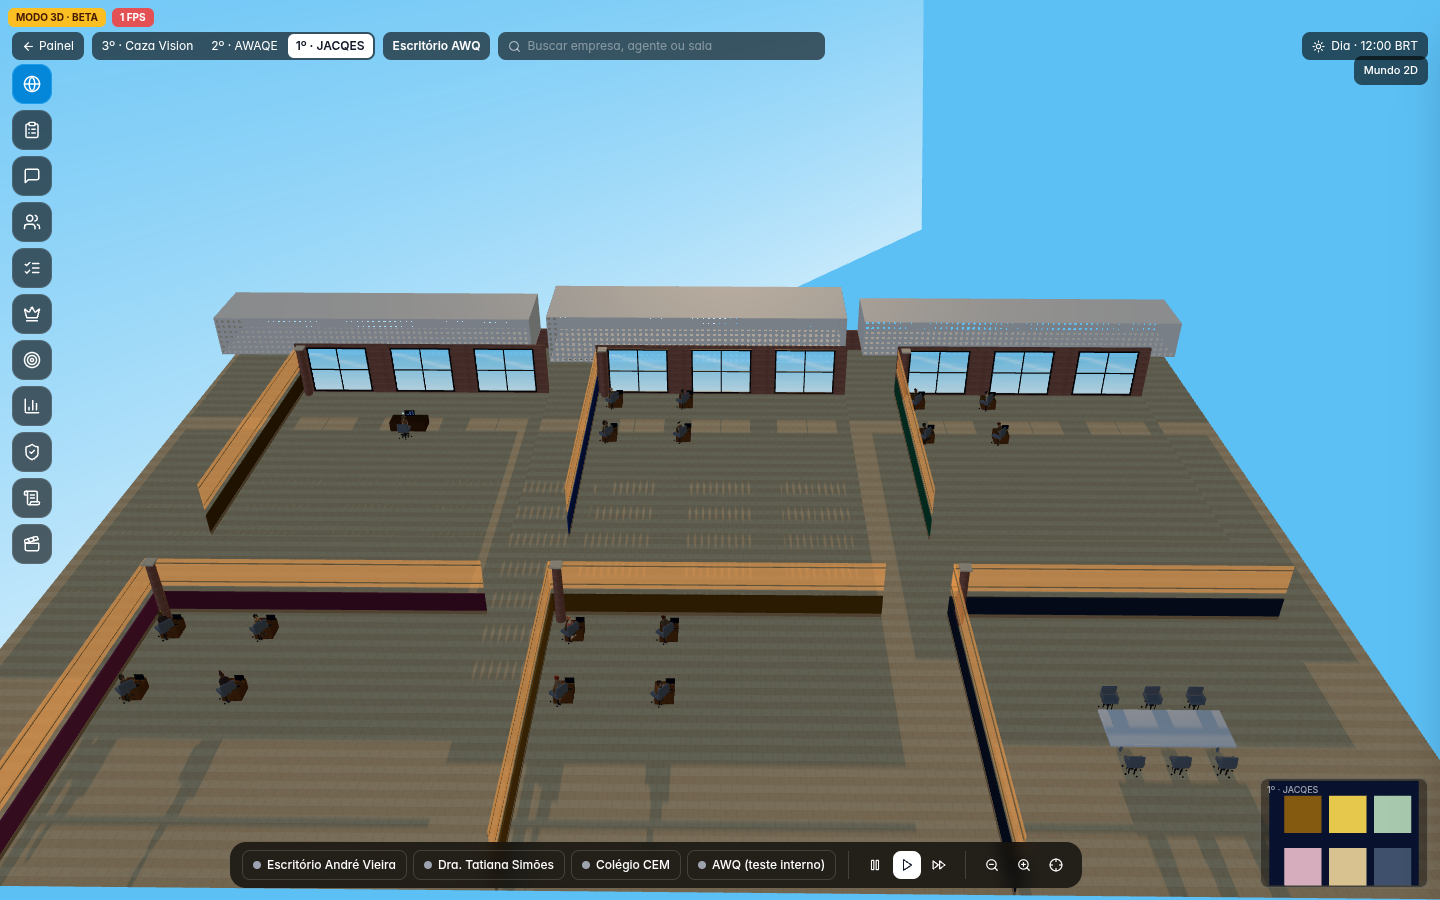
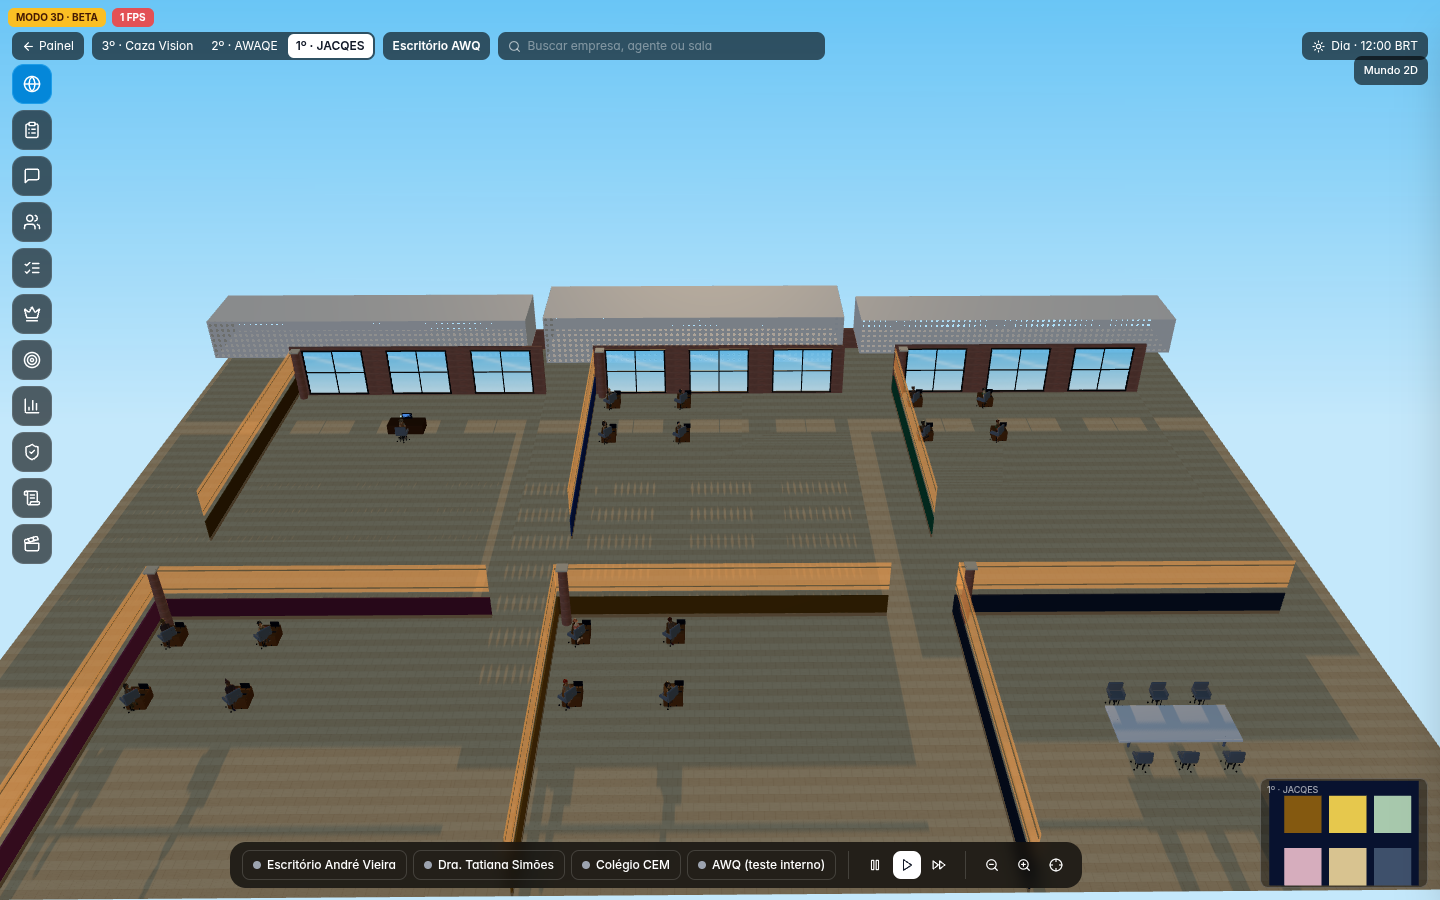
fix(office): céu acompanha a câmera e uma luz por sala
O plano fixo de 260×120 cortava o canto na órbita. O degradê agora preenche o quadro, preso à câmera. Cada sala fica com uma point light só.

diff --git a/components/office/OfficeGame3D.tsx b/components/office/OfficeGame3D.tsx
@@ -666,9 +666,14 @@ function Sala({
       )}
       {/* duas paredes de fundo, em camadas (rodapé + painel + vidro com travessas), cutaway —
           sem parede frontal nem teto, pra manter a leitura isométrica */}
-      {/* As luzes ficam montadas; só a intensidade muda, para o shader não recompilar. */}
-      <pointLight position={[w / 2, 2.2, d / 2]} color="#ffc48a" intensity={ativo ? 6 : 0} distance={14} decay={2} />
-      <pointLight position={[w / 2, 1.7, d / 2]} color="#ffb060" intensity={!ativo && luzDoDia(hora) < 0.55 ? 4 : 0} distance={12} decay={2} />
+      {/* Uma luz só, sempre montada: cor e intensidade trocam sem recompilar o shader. */}
+      <pointLight
+        position={[w / 2, 2.2, d / 2]}
+        color={ativo ? "#ffc48a" : "#ffb060"}
+        intensity={ativo ? 6 : luzDoDia(hora) < 0.55 ? 4 : 0}
+        distance={ativo ? 14 : 12}
+        decay={2}
+      />
       <group position={[0, 0, 0.02]}>
         {predio.y <= 1 ? (
           <ParedeExterna comprimento={w} hora={hora} />
@@ -926,8 +931,13 @@ function SalaDaCasa({
           <meshStandardMaterial map={tapeteMap} color={accent} roughness={0.95} transparent opacity={0.9} />
         </mesh>
       )}
-      <pointLight position={[w / 2, 2.2, d / 2]} color="#ffc48a" intensity={detalhado ? 6 : 0} distance={14} decay={2} />
-      <pointLight position={[w / 2, 1.7, d / 2]} color="#ffb060" intensity={!detalhado && luzDoDia(hora) < 0.55 ? 4 : 0} distance={12} decay={2} />
+      <pointLight
+        position={[w / 2, 2.2, d / 2]}
+        color={detalhado ? "#ffc48a" : "#ffb060"}
+        intensity={detalhado ? 6 : luzDoDia(hora) < 0.55 ? 4 : 0}
+        distance={detalhado ? 14 : 12}
+        decay={2}
+      />
       <group position={[0, 0, 0.02]}>
         {origem.y <= 1 ? (
           <ParedeExterna comprimento={w} hora={hora} />
@@ -1128,8 +1138,10 @@ function texturaDegrade(topo: string, base: string): THREE.CanvasTexture {
   c.height = 256;
   const g = c.getContext("2d")!;
   const grad = g.createLinearGradient(0, 0, 0, 256);
+  // O plano preenche o quadro: o topo segura a cor do céu e o degradê chega no horizonte, não no rodapé.
   grad.addColorStop(0, topo);
-  grad.addColorStop(0.45, topo);
+  grad.addColorStop(0.12, topo);
+  grad.addColorStop(0.48, base);
   grad.addColorStop(1, base);
   g.fillStyle = grad;
   g.fillRect(0, 0, 8, 256);
@@ -1139,19 +1151,27 @@ function texturaDegrade(topo: string, base: string): THREE.CanvasTexture {
   return t;
 }
 
-/** Painel atrás da cidade, de frente para a câmera, para o entardecer não ser um azul chapado. */
-function CeuPainel({ hora }: { hora: number }) {
+/** Degradê atrás da cidade, preso à câmera e maior que o quadro, para a órbita não revelar a borda. */
+function FundoCeu({ hora }: { hora: number }) {
+  const ref = useRef<THREE.Mesh>(null);
   const ceuAtual = ceuEntardecer(hora);
   const tex = useMemo(() => texturaDegrade(ceuAtual.topo, ceuAtual.base), [ceuAtual.topo, ceuAtual.base]);
   useEffect(() => () => tex.dispose(), [tex]);
-  const ref = useRef<THREE.Mesh>(null);
-  useEffect(() => {
-    const camera = new THREE.Vector3(22, 16, 16).addScaledVector(DIRECAO_CAM, 30);
-    ref.current?.lookAt(camera);
-  }, [tex]);
+  useFrame(({ camera }) => {
+    const mesh = ref.current;
+    if (!mesh || !(camera instanceof THREE.PerspectiveCamera)) return;
+    const dist = 500;
+    const vFov = (camera.fov * Math.PI) / 180;
+    const altura = 2 * Math.tan(vFov / 2) * dist * 1.5;
+    const largura = altura * camera.aspect * 1.5;
+    mesh.scale.set(largura, altura, 1);
+    mesh.position.copy(camera.position);
+    mesh.quaternion.copy(camera.quaternion);
+    mesh.translateZ(-dist);
+  });
   return (
-    <mesh ref={ref} position={[22 - DIRECAO_CAM.x * 90, 16, 16 - DIRECAO_CAM.z * 90]} renderOrder={-1}>
-      <planeGeometry args={[260, 120]} />
+    <mesh ref={ref} renderOrder={-1} frustumCulled={false}>
+      <planeGeometry args={[1, 1]} />
       <meshBasicMaterial map={tex} toneMapped={false} depthWrite={false} side={THREE.DoubleSide} />
     </mesh>
   );
@@ -1167,8 +1187,7 @@ function Iluminacao({ hora }: { hora: number }) {
   }, []);
   return (
     <>
-      <color attach="background" args={[ceuAtual.topo]} />
-      <CeuPainel hora={hora} />
+      <FundoCeu hora={hora} />
       <hemisphereLight args={[ceuAtual.topo, "#c4a882", 0.08 + l * 0.18]} />
       {/* De dia (luzDoDia = 1) fica em 0.38, acima de 0.35. À noite volta para 0.08. */}
       <ambientLight intensity={0.08 + l * 0.30} />
